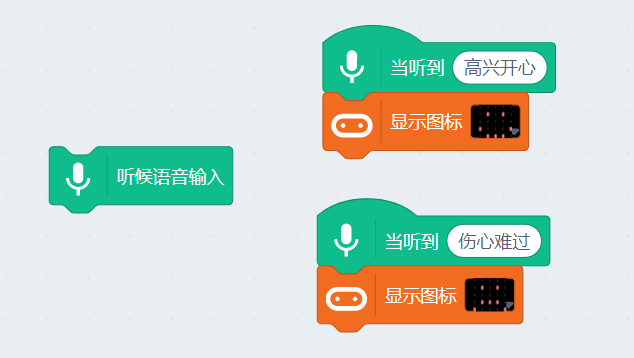
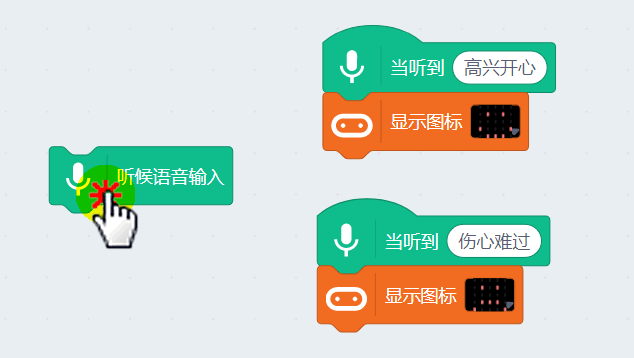
AI原理补充

Changed region(s): [[0.1199, 0.4609, 0.2397, 0.7067]]

diff --git a/AI/语音识别.md b/AI/语音识别.md
@@ -1,24 +1,45 @@
 # 语音识别
 
+![](./images/c03_13.png)
+
 ## 简介
 
-语音识别，是CC喵最喜欢的一个人工智能功能。近年来智能音响大热，大家喜欢的功能无非就是，多了个语言控制，感觉很神奇很智能，那么本节，就由我带领你学会语音识别控制。
+语音识别，是CC喵最喜欢的一个人工智能功能。近年来智能音响大热，大家喜欢的功能无非就是，多了个语言控制，感觉机器是有生命的，能听懂人话，感觉很神奇很智能，那么本节，就由我带领你学会语音识别控制。
+
+
+
+## 原理
+
+在说语音识别技术的原理前，我们先来学习下，人是如何听到别人说的话，并且理解句子的意思。
+
+![](./images/c03_12.png)
+
+声波由物体震动产生，它经过耳朵的一系列结构，最后声音触发了听神经，最后通过我们大脑将听到的话处理成可以理解的意思。
+
+![](./images/c03_14.png)
+
+同理，对于机器的语音识别一样。
+
+麦克风将声波转换为电信号，电脑将电信号储存为音频文件，将其数字化。机器在对语音信号进行处理，进行特征提取，根据语言模型进行匹配，最后“听懂”这句话的意思。
 
 ## 实验条件
 
 - 安装好Kittenblock
 
-- 畅顺的网络（语音识别是通过云端服务器实现，用的是MIT的服务器）
-
 - 麦克风或者带麦克风的USB摄像头（型号没有限制，但是麦克风质量最好是好一点的，不然识别率不是很高）
+
+- 电脑可以播放声音(记得调整好音量)
+
+- 畅顺的网络（文字朗读是通过云端服务器实现，用的是MIT的服务器）
+
 
 (除此外，您无需购买小喵任何硬件套件，人工智能，小喵真的是做到普惠，希望各位老师多多支持！）
 
-PS：Kittenblock软件安装过程很简单，具体参照：
+PS：Kittenblock软件安装过程很简单，这里不再作介绍，具体参照：
 
-http://learn.kittenbot.cn/zh_CN/latest/kittenblock/00Kittenblock%E5%AE%89%E8%A3%85.html
+http://learn.kittenbot.cn/ 的Kittenblock教程分栏
 
-![](./images/kb_az.png)
+![](./images/c01_16.png)
 
 ## 插件加载
 
@@ -64,19 +85,25 @@ http://learn.kittenbot.cn/zh_CN/latest/kittenblock/00Kittenblock%E5%AE%89%E8%A3%
 
 ![](./images/c03_10.png)
 
-[如果你觉得不够详细，可以戳这里的百度教程](https://jingyan.baidu.com/article/046a7b3e934bf5f9c27fa9f0.html)
+[如果你觉得这里不够详细，可以百度DNS的设置方法](https://jingyan.baidu.com/article/046a7b3e934bf5f9c27fa9f0.html)
 
 ## 加入硬件更好玩
 
 案例1：控制喵家能量魔块
 
-控制虚拟的东西总是有点无聊，我们能不能利用语音识别来控制喵家的产品套件呢？当然
+![](./images/c03_16.png)
 
-本示例所用的套件————能量模块（Microbit、主控盒、电池盒、灰色乐高Geekservo）
+控制虚拟的东西总是有点无聊，我们能不能利用语音识别来控制喵家的产品套件呢？当然，本质就是软件与硬件之间的交互。
 
-如果你对能量魔块不熟悉，你可以在learn的相关页面进行学习，是一款结合Microbit与乐高结构件的一款电子套件
+本示例所用的套件————能量魔块（Microbit、主控盒、电池盒、灰色乐高Geekservo），它是一款结合Microbit与乐高结构件的电子套件。
 
+如果你对能量魔块不熟悉，可以访问http://learn.kittenbot.cn/ 的能量魔块分栏
+
+![](./images/c03_15.png)
+ 
 选择Powerbrick硬件，恢复固件后，连接串口（[如果这里遇到问题，请在learn的相关页面进行学习](http://learn.kittenbot.cn/zh_CN/latest/powerbrick_KB/index.html)）
+
+访问 http://learn.kittenbot.cn/ 的能量魔块分栏的快速开始
 
 ![](./images/c03_09.png)
 
@@ -84,8 +111,14 @@ http://learn.kittenbot.cn/zh_CN/latest/kittenblock/00Kittenblock%E5%AE%89%E8%A3%
 
 ![](./images/c03_08.png)
 
+现象：当点击语音输入时，等待舞台右下方的麦克风出现后，说出“举起手”或者“放下手”。Microbit就会控制舵机做出不同的反应。
+
 案例2：控制Microbit点阵
 
 硬件选择Microbt-python——serial，然后恢复固件，最后连接上串口，[如果你对此操作不熟悉可以跳转这里的教程](http://learn.kittenbot.cn/zh_CN/latest/microbit/microbit_kittenblock/03microbit%E4%BD%BF%E7%94%A8%E5%9C%A8%E7%BA%BF%E8%B0%83%E8%AF%95%E6%A8%A1%E5%BC%8F.html)
 
+访问 http://learn.kittenbot.cn/ 的能量魔块分栏的快速开始
+
 ![](./images/c03_11.png)
+
+现象：当点击语音输入时，等待舞台右下方的麦克风出现后，说出“高兴开心”或者“伤心难过”，Microbit点阵屏上就会显示不同的表情。

diff --git a/AI/机器翻译.md b/AI/机器翻译.md
@@ -4,22 +4,38 @@
 
 翻译也在我们生活中用得很多，比如我们的翻译机，或者是平时网页翻译，我们很多时候都已经离不开翻译的工具了,尤其在我们查阅一些外文资料的时候。
 
-机器翻译：将不同语言文字翻译为另外一种语言文字
+## 原理
+
+机器翻译（machine translation），又称为自动翻译，是利用计算机把一种自然源语言转变为另一种自然目标语言的过程，一般指自然语言之间句子和全文的翻译。它是自然语言处理 （Natural Language Processing）的一个分支，与计算语言学（Computational Linguistics ）、自然语言理解（ Natural Language Understanding） 之间存在着密不可分的关系.
+
+机器翻译主要经历三个阶段：
+
+![](./images/c02_08.png)
+
+1、基于规则翻译。这个阶段可以简单理解为逐词翻译，还有句子的成分翻译后是应该如何排序。这个阶段对于简单的句子，翻译的效果是很好的，但是一旦超出日常的范围，翻译出来的句子就会晦涩难懂，不知所言。另外一个缺点就是，不同语言之间你都需要一个语言专家来做成一对一的规则，这个需要花费很大的人力。因此就有了统计机器翻译的阶段。
+
+![](./images/c02_09.png)
+
+2、统计机器翻译。这个阶段利用了统计学的方法。建立了一个数学模型。这种模型成本很低，它跟语言无关，一旦建立起来后，可以对任何语言都是适用。统计学基于语料库，如果语料库数据太少的情况下，这种方法就不适用了，因此产生了下一阶段发展的必要性。
+
+3、神经网络机器翻译，神经网络机器翻译主要包括两部分，编码器与解码器，编码器根据神经网络的变换，将句子变为高维向量，解码器再将高维向量转换为目标语言。神经网络的机器翻译优势在于效率高，效果更好。随着神经网络翻译的不断发展，翻译质量不断的提高。
 
 ## 实验条件
 
 - 安装好Kittenblock
 
-- 畅顺的网络
+- 电脑可以播放声音(记得调整好音量)
+
+- 畅顺的网络（文字朗读是通过云端服务器实现，用的是MIT的服务器）
 
 
 (除此外，您无需购买小喵任何硬件套件，人工智能，小喵真的是做到普惠，希望各位老师多多支持！）
 
-PS：Kittenblock软件安装过程很简单，具体参照：
+PS：Kittenblock软件安装过程很简单，这里不再作介绍，具体参照：
 
-http://learn.kittenbot.cn/zh_CN/latest/kittenblock/00Kittenblock%E5%AE%89%E8%A3%85.html
+http://learn.kittenbot.cn/ 的Kittenblock教程分栏
 
-![](./images/kb_az.png)
+![](./images/c01_16.png)
 
 ## 插件加载
 
@@ -67,6 +83,6 @@ http://learn.kittenbot.cn/zh_CN/latest/kittenblock/00Kittenblock%E5%AE%89%E8%A3%
 
 ![](./images/c02_07.png)
 
-切记设置朗读语言应该与你的翻译语言的语种一致，否则发不出声音来。
+切记设置朗读语言应该与你的翻译语言的语种一致，否则发不出声音来！
 
 

diff --git a/AI/视觉识别01初探.md b/AI/视觉识别01初探.md
@@ -6,6 +6,10 @@
 
 本节首先入门视频侦测
 
+## 原理
+
+通过截取视频当前的图片和之前的进行对比，检测画面是否有变化。
+
 ## 实验条件
 
 - 安装好Kittenblock
@@ -16,12 +20,11 @@
 
 (除此外，您无需购买小喵任何硬件套件，人工智能，小喵真的是做到普惠，希望各位老师多多支持！）
 
-PS：Kittenblock软件安装过程很简单，具体参照：
+PS：Kittenblock软件安装过程很简单，这里不再作介绍，具体参照：
 
-http://learn.kittenbot.cn/zh_CN/latest/kittenblock/00Kittenblock%E5%AE%89%E8%A3%85.html
+http://learn.kittenbot.cn/ 的Kittenblock教程分栏
 
-![](./images/kb_az.png)
-
+![](./images/c01_16.png)
 
 ## 插件加载
 
@@ -51,7 +54,7 @@ http://learn.kittenbot.cn/zh_CN/latest/kittenblock/00Kittenblock%E5%AE%89%E8%A3%
 
 ![](./images/c06_04.png)
 
-当摄像头画面变化时，即可触发，数值越低越容易触发，如设置阈值为100时，你在镜头前狂挥手也不一定能触发成功。
+当摄像头画面变化时，即可触发，数值越低越容易触发，如设置阈值为100时，你在镜头前狂挥手也不一定能触发成功。（积木边框亮起来即触发了）
 
 ![](./images/c06_05.png)
 
@@ -61,11 +64,13 @@ http://learn.kittenbot.cn/zh_CN/latest/kittenblock/00Kittenblock%E5%AE%89%E8%A3%
 
 ## 动作检测编程
 
+这个程序，当有物体闯入摄像头画面时，舞台小猫就会说出，警告语。
+
 ![](./images/c06_07.png)
 
 ## 角色视频侦测介绍
 
-角色视频侦测这个也很常用，经常用于多个角色一起与视频进行互动，此积木块返回的是数值大小，一般用逻辑判断
+角色视频侦测这个也很常用，经常用于多个角色一起与视频进行互动，此积木块返回的是数值大小，数值大小决定于画面运动部分与角色的重合程度。当没有重叠是，数值大小为1，当有运动重叠是，数值就会变大。这个积木块一般用于数值的大小判断。
 
 ![](./images/c06_08.png)
 

diff --git a/AI/专家系统.md b/AI/专家系统.md
@@ -17,12 +17,13 @@
 - 麦克风或者带麦克风的USB摄像头（型号没有限制）
 
 (除此外，您无需购买小喵任何硬件套件，人工智能，小喵真的是做到普惠，希望各位老师多多支持！）
+(除此外，您无需购买小喵任何硬件套件，人工智能，小喵真的是做到普惠，希望各位老师多多支持！）
 
-PS：Kittenblock软件安装过程很简单，具体参照：
+PS：Kittenblock软件安装过程很简单，这里不再作介绍，具体参照：
 
-http://learn.kittenbot.cn/zh_CN/latest/kittenblock/00Kittenblock%E5%AE%89%E8%A3%85.html
+http://learn.kittenbot.cn/ 的Kittenblock教程分栏
 
-![](./images/kb_az.png)
+![](./images/c01_16.png)
 
 ## 插件加载
 

diff --git a/AI/视觉识别02人脸追踪.md b/AI/视觉识别02人脸追踪.md
@@ -8,6 +8,9 @@
 
 ![](./images/c07_07.png)
 
+## 原理
+
+
 
 ## 实验条件
 
@@ -19,12 +22,11 @@
 
 (除此外，您无需购买小喵任何硬件套件，人工智能，小喵真的是做到普惠，希望各位老师多多支持！）
 
-PS：Kittenblock软件安装过程很简单，具体参照：
+PS：Kittenblock软件安装过程很简单，这里不再作介绍，具体参照：
 
-http://learn.kittenbot.cn/zh_CN/latest/kittenblock/00Kittenblock%E5%AE%89%E8%A3%85.html
+http://learn.kittenbot.cn/ 的Kittenblock教程分栏
 
-![](./images/kb_az.png)
-
+![](./images/c01_16.png)
 
 ## 插件加载
 

diff --git a/AI/视觉识别04特定人脸辨认.md b/AI/视觉识别04特定人脸辨认.md
@@ -18,12 +18,11 @@
 
 (除此外，您无需购买小喵任何硬件套件，人工智能，小喵真的是做到普惠，希望各位老师多多支持！）
 
+PS：Kittenblock软件安装过程很简单，这里不再作介绍，具体参照：
 
-PS：Kittenblock软件安装过程很简单，具体参照：
+http://learn.kittenbot.cn/ 的Kittenblock教程分栏
 
-http://learn.kittenbot.cn/zh_CN/latest/kittenblock/00Kittenblock%E5%AE%89%E8%A3%85.html
-
-![](./images/kb_az.png)
+![](./images/c01_16.png)
 
 ## 插件加载
 

diff --git a/AI/视觉识别03人脸检测.md b/AI/视觉识别03人脸检测.md
@@ -16,11 +16,11 @@
 
 (除此外，您无需购买小喵任何硬件套件，人工智能，小喵真的是做到普惠，希望各位老师多多支持！）
 
-PS：Kittenblock软件安装过程很简单，具体参照：
+PS：Kittenblock软件安装过程很简单，这里不再作介绍，具体参照：
 
-http://learn.kittenbot.cn/zh_CN/latest/kittenblock/00Kittenblock%E5%AE%89%E8%A3%85.html
+http://learn.kittenbot.cn/ 的Kittenblock教程分栏
 
-![](./images/kb_az.png)
+![](./images/c01_16.png)
 
 
 ## 插件加载

diff --git a/AI/超级翻译官.md b/AI/超级翻译官.md
@@ -20,11 +20,11 @@
 
 (除此外，您无需购买小喵任何硬件套件，人工智能，小喵真的是做到普惠，希望各位老师多多支持！）
 
-PS：Kittenblock软件安装过程很简单，具体参照：
+PS：Kittenblock软件安装过程很简单，这里不再作介绍，具体参照：
 
-http://learn.kittenbot.cn/zh_CN/latest/kittenblock/00Kittenblock%E5%AE%89%E8%A3%85.html
+http://learn.kittenbot.cn/ 的Kittenblock教程分栏
 
-![](./images/kb_az.png)
+![](./images/c01_16.png)
 
 ## 插件加载
 
